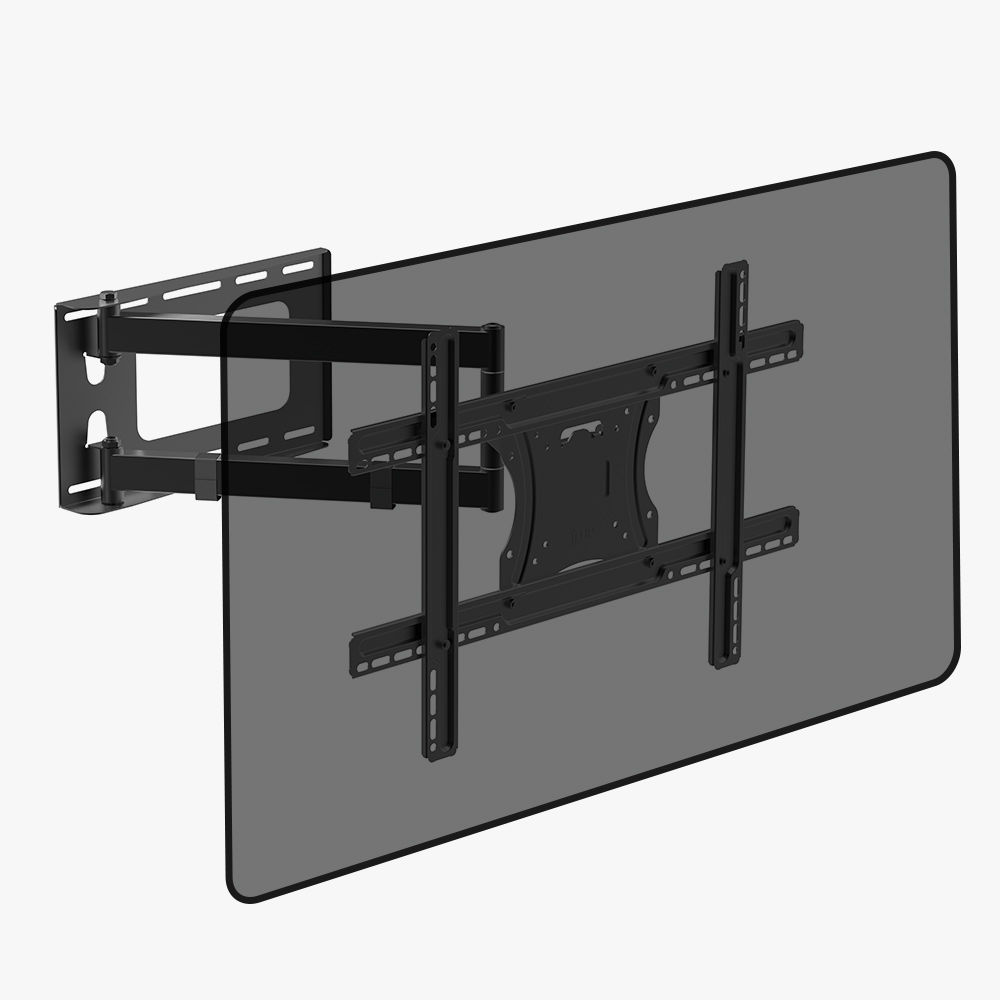
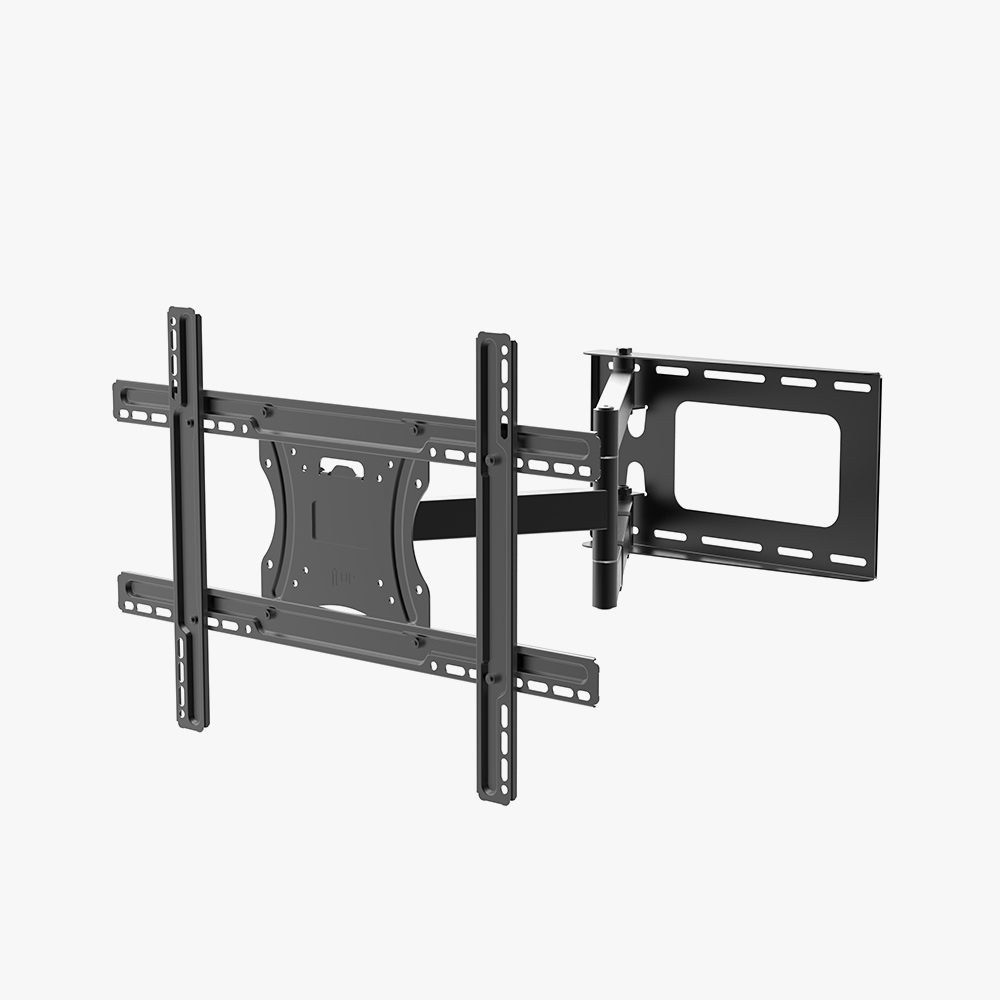
Fix pilot batch thumbnails: verify content + brand, fill/remove gallery slots

diff --git a/product-detail-apl-64tvsl.html b/product-detail-apl-64tvsl.html
@@ -68,14 +68,14 @@
             <div class="gallery-thumb active" onclick="setThumb('APL-64TVSL/thumb/apl-64tvsl-thumb-01.jpg','정면')">
               <img src="APL-64TVSL/thumb/apl-64tvsl-thumb-01.jpg" alt="썸네일 1" style="width:100%;height:100%;object-fit:contain;padding:4px;">
             </div>
-            <div class="gallery-thumb" onclick="setThumb('APL-64TVSL/detail/APL-64TVSL_01.jpg','측면')">
-              <img src="APL-64TVSL/detail/APL-64TVSL_01.jpg" alt="썸네일 2" style="width:100%;height:100%;object-fit:contain;padding:4px;">
+            <div class="gallery-thumb" onclick="setThumb('APL-64TVSL/thumb/apl-64tvsl-thumb-02.jpg','설치 예시 1')">
+              <img src="APL-64TVSL/thumb/apl-64tvsl-thumb-02.jpg" alt="썸네일 2" style="width:100%;height:100%;object-fit:contain;padding:4px;">
             </div>
-            <div class="gallery-thumb" onclick="setThumb('APL-64TVSL/detail/APL-64TVSL_02.jpg','설치예시')">
-              <img src="APL-64TVSL/detail/APL-64TVSL_02.jpg" alt="썸네일 3" style="width:100%;height:100%;object-fit:contain;padding:4px;">
+            <div class="gallery-thumb" onclick="setThumb('APL-64TVSL/thumb/apl-64tvsl-thumb-03.jpg','설치 예시 2')">
+              <img src="APL-64TVSL/thumb/apl-64tvsl-thumb-03.jpg" alt="썸네일 3" style="width:100%;height:100%;object-fit:contain;padding:4px;">
             </div>
-            <div class="gallery-thumb" onclick="setThumb('APL-64TVSL/detail/APL-64TVSL_03.jpg','디테일')">
-              <img src="APL-64TVSL/detail/APL-64TVSL_03.jpg" alt="썸네일 4" style="width:100%;height:100%;object-fit:contain;padding:4px;">
+            <div class="gallery-thumb" onclick="setThumb('APL-64TVSL/thumb/apl-64tvsl-thumb-04.jpg','설치 예시 3')">
+              <img src="APL-64TVSL/thumb/apl-64tvsl-thumb-04.jpg" alt="썸네일 4" style="width:100%;height:100%;object-fit:contain;padding:4px;">
             </div>
           </div>
         </div>

diff --git a/product-detail-apl-96tvd.html b/product-detail-apl-96tvd.html
@@ -68,14 +68,14 @@
             <div class="gallery-thumb active" onclick="setThumb('APL-96TVD/thumb/apl-96tvd-thumb-01.jpg','정면')">
               <img src="APL-96TVD/thumb/apl-96tvd-thumb-01.jpg" alt="썸네일 1" style="width:100%;height:100%;object-fit:contain;padding:4px;">
             </div>
-            <div class="gallery-thumb" onclick="setThumb('APL-96TVD/detail/APL-96TVD_01.jpg','측면')">
-              <img src="APL-96TVD/detail/APL-96TVD_01.jpg" alt="썸네일 2" style="width:100%;height:100%;object-fit:contain;padding:4px;">
+            <div class="gallery-thumb" onclick="setThumb('APL-96TVD/thumb/apl-96tvd-thumb-02.jpg','설치 예시 1')">
+              <img src="APL-96TVD/thumb/apl-96tvd-thumb-02.jpg" alt="썸네일 2" style="width:100%;height:100%;object-fit:contain;padding:4px;">
             </div>
-            <div class="gallery-thumb" onclick="setThumb('APL-96TVD/detail/APL-96TVD_02.jpg','설치예시')">
-              <img src="APL-96TVD/detail/APL-96TVD_02.jpg" alt="썸네일 3" style="width:100%;height:100%;object-fit:contain;padding:4px;">
+            <div class="gallery-thumb" onclick="setThumb('APL-96TVD/thumb/apl-96tvd-thumb-03.jpg','설치 예시 2')">
+              <img src="APL-96TVD/thumb/apl-96tvd-thumb-03.jpg" alt="썸네일 3" style="width:100%;height:100%;object-fit:contain;padding:4px;">
             </div>
-            <div class="gallery-thumb" onclick="setThumb('APL-96TVD/detail/APL-96TVD_03.jpg','디테일')">
-              <img src="APL-96TVD/detail/APL-96TVD_03.jpg" alt="썸네일 4" style="width:100%;height:100%;object-fit:contain;padding:4px;">
+            <div class="gallery-thumb" onclick="setThumb('APL-96TVD/thumb/apl-96tvd-thumb-04.jpg','측면')">
+              <img src="APL-96TVD/thumb/apl-96tvd-thumb-04.jpg" alt="썸네일 4" style="width:100%;height:100%;object-fit:contain;padding:4px;">
             </div>
           </div>
         </div>

diff --git a/product-detail-apl-fs44w.html b/product-detail-apl-fs44w.html
@@ -68,14 +68,14 @@
             <div class="gallery-thumb active" onclick="setThumb('APL-FS44W/thumb/apl-fs44w-thumb-01.jpg','정면')">
               <img src="APL-FS44W/thumb/apl-fs44w-thumb-01.jpg" alt="썸네일 1" style="width:100%;height:100%;object-fit:contain;padding:4px;">
             </div>
-            <div class="gallery-thumb" onclick="setThumb('APL-FS44W/detail/APL-FS44W_01.jpg','전체')">
-              <img src="APL-FS44W/detail/APL-FS44W_01.jpg" alt="썸네일 2" style="width:100%;height:100%;object-fit:contain;padding:4px;">
+            <div class="gallery-thumb" onclick="setThumb('APL-FS44W/thumb/apl-fs44w-thumb-02.jpg','설치 예시 1')">
+              <img src="APL-FS44W/thumb/apl-fs44w-thumb-02.jpg" alt="썸네일 2" style="width:100%;height:100%;object-fit:contain;padding:4px;">
             </div>
-            <div class="gallery-thumb" onclick="setThumb('APL-FS44W/detail/APL-FS44W_02.jpg','측면')">
-              <img src="APL-FS44W/detail/APL-FS44W_02.jpg" alt="썸네일 3" style="width:100%;height:100%;object-fit:contain;padding:4px;">
+            <div class="gallery-thumb" onclick="setThumb('APL-FS44W/thumb/apl-fs44w-thumb-03.jpg','설치 예시 2')">
+              <img src="APL-FS44W/thumb/apl-fs44w-thumb-03.jpg" alt="썸네일 3" style="width:100%;height:100%;object-fit:contain;padding:4px;">
             </div>
-            <div class="gallery-thumb" onclick="setThumb('APL-FS44W/detail/APL-FS44W_03.jpg','디테일')">
-              <img src="APL-FS44W/detail/APL-FS44W_03.jpg" alt="썸네일 4" style="width:100%;height:100%;object-fit:contain;padding:4px;">
+            <div class="gallery-thumb" onclick="setThumb('APL-FS44W/thumb/apl-fs44w-thumb-04.jpg','디테일')">
+              <img src="APL-FS44W/thumb/apl-fs44w-thumb-04.jpg" alt="썸네일 4" style="width:100%;height:100%;object-fit:contain;padding:4px;">
             </div>
           </div>
         </div>

diff --git a/product-detail-apl-vesa2020.html b/product-detail-apl-vesa2020.html
@@ -68,14 +68,14 @@
             <div class="gallery-thumb active" onclick="setThumb('APL-VESA2020/thumb/apl-vesa2020-thumb-01.jpg','정면')">
               <img src="APL-VESA2020/thumb/apl-vesa2020-thumb-01.jpg" alt="썸네일 1" style="width:100%;height:100%;object-fit:contain;padding:4px;">
             </div>
-            <div class="gallery-thumb" onclick="setThumb('APL-VESA2020/detail/APL-VESA2020_01.jpg','상세 1')">
-              <img src="APL-VESA2020/detail/APL-VESA2020_01.jpg" alt="썸네일 2" style="width:100%;height:100%;object-fit:contain;padding:4px;">
+            <div class="gallery-thumb" onclick="setThumb('APL-VESA2020/thumb/apl-vesa2020-thumb-02.jpg','설치 예시 1')">
+              <img src="APL-VESA2020/thumb/apl-vesa2020-thumb-02.jpg" alt="썸네일 2" style="width:100%;height:100%;object-fit:contain;padding:4px;">
             </div>
-            <div class="gallery-thumb" onclick="setThumb('APL-VESA2020/detail/APL-VESA2020_02.jpg','상세 2')">
-              <img src="APL-VESA2020/detail/APL-VESA2020_02.jpg" alt="썸네일 3" style="width:100%;height:100%;object-fit:contain;padding:4px;">
+            <div class="gallery-thumb" onclick="setThumb('APL-VESA2020/thumb/apl-vesa2020-thumb-03.jpg','설치 예시 2')">
+              <img src="APL-VESA2020/thumb/apl-vesa2020-thumb-03.jpg" alt="썸네일 3" style="width:100%;height:100%;object-fit:contain;padding:4px;">
             </div>
-            <div class="gallery-thumb" onclick="setThumb('APL-VESA2020/detail/APL-VESA2020_03.jpg','상세 3')">
-              <img src="APL-VESA2020/detail/APL-VESA2020_03.jpg" alt="썸네일 4" style="width:100%;height:100%;object-fit:contain;padding:4px;">
+            <div class="gallery-thumb" onclick="setThumb('APL-VESA2020/thumb/apl-vesa2020-thumb-04.jpg','측면')">
+              <img src="APL-VESA2020/thumb/apl-vesa2020-thumb-04.jpg" alt="썸네일 4" style="width:100%;height:100%;object-fit:contain;padding:4px;">
             </div>
           </div>
         </div>

diff --git a/product-detail-apl-lbm40wh.html b/product-detail-apl-lbm40wh.html
@@ -68,15 +68,6 @@
             <div class="gallery-thumb active" onclick="setThumb('APL-LBM40WH/thumb/apl-lbm40wh-thumb-01.jpg','정면')">
               <img src="APL-LBM40WH/thumb/apl-lbm40wh-thumb-01.jpg" alt="썸네일 1" style="width:100%;height:100%;object-fit:contain;padding:4px;">
             </div>
-            <div class="gallery-thumb" onclick="setThumb('APL-LBM40WH/detail/APL-LBM40WH_01.jpg','전체')">
-              <img src="APL-LBM40WH/detail/APL-LBM40WH_01.jpg" alt="썸네일 2" style="width:100%;height:100%;object-fit:contain;padding:4px;">
-            </div>
-            <div class="gallery-thumb" onclick="setThumb('APL-LBM40WH/detail/APL-LBM40WH_02.jpg','측면')">
-              <img src="APL-LBM40WH/detail/APL-LBM40WH_02.jpg" alt="썸네일 3" style="width:100%;height:100%;object-fit:contain;padding:4px;">
-            </div>
-            <div class="gallery-thumb" onclick="setThumb('APL-LBM40WH/detail/APL-LBM40WH_03.jpg','디테일')">
-              <img src="APL-LBM40WH/detail/APL-LBM40WH_03.jpg" alt="썸네일 4" style="width:100%;height:100%;object-fit:contain;padding:4px;">
-            </div>
           </div>
         </div>
 

diff --git a/product-detail-apl-101f.html b/product-detail-apl-101f.html
@@ -68,11 +68,11 @@
             <div class="gallery-thumb active" onclick="setThumb('APL-101F/thumb/apl-101f-thumb-01.jpg','정면')">
               <img src="APL-101F/thumb/apl-101f-thumb-01.jpg" alt="썸네일 1" style="width:100%;height:100%;object-fit:contain;padding:4px;">
             </div>
-            <div class="gallery-thumb" onclick="setThumb('APL-101F/detail/APL-101F_01.jpg','측면')">
-              <img src="APL-101F/detail/APL-101F_01.jpg" alt="썸네일 2" style="width:100%;height:100%;object-fit:contain;padding:4px;">
+            <div class="gallery-thumb" onclick="setThumb('APL-101F/thumb/apl-101f-thumb-02.jpg','설치 예시 1')">
+              <img src="APL-101F/thumb/apl-101f-thumb-02.jpg" alt="썸네일 2" style="width:100%;height:100%;object-fit:contain;padding:4px;">
             </div>
-            <div class="gallery-thumb" onclick="setThumb('APL-101F/detail/APL-101F_02.jpg','디테일')">
-              <img src="APL-101F/detail/APL-101F_02.jpg" alt="썸네일 3" style="width:100%;height:100%;object-fit:contain;padding:4px;">
+            <div class="gallery-thumb" onclick="setThumb('APL-101F/thumb/apl-101f-thumb-03.jpg','설치 예시 2')">
+              <img src="APL-101F/thumb/apl-101f-thumb-03.jpg" alt="썸네일 3" style="width:100%;height:100%;object-fit:contain;padding:4px;">
             </div>
           </div>
         </div>

diff --git a/product-detail-apl-22f.html b/product-detail-apl-22f.html
@@ -68,11 +68,11 @@
             <div class="gallery-thumb active" onclick="setThumb('APL-22F/thumb/apl-22f-thumb-01.jpg','정면')">
               <img src="APL-22F/thumb/apl-22f-thumb-01.jpg" alt="썸네일 1" style="width:100%;height:100%;object-fit:contain;padding:4px;">
             </div>
-            <div class="gallery-thumb" onclick="setThumb('APL-22F/detail/APL-22F_01.jpg','측면')">
-              <img src="APL-22F/detail/APL-22F_01.jpg" alt="썸네일 2" style="width:100%;height:100%;object-fit:contain;padding:4px;">
+            <div class="gallery-thumb" onclick="setThumb('APL-22F/thumb/apl-22f-thumb-02.jpg','설치 예시 1')">
+              <img src="APL-22F/thumb/apl-22f-thumb-02.jpg" alt="썸네일 2" style="width:100%;height:100%;object-fit:contain;padding:4px;">
             </div>
-            <div class="gallery-thumb" onclick="setThumb('APL-22F/detail/APL-22F_02.jpg','디테일')">
-              <img src="APL-22F/detail/APL-22F_02.jpg" alt="썸네일 3" style="width:100%;height:100%;object-fit:contain;padding:4px;">
+            <div class="gallery-thumb" onclick="setThumb('APL-22F/thumb/apl-22f-thumb-03.jpg','설치 예시 2')">
+              <img src="APL-22F/thumb/apl-22f-thumb-03.jpg" alt="썸네일 3" style="width:100%;height:100%;object-fit:contain;padding:4px;">
             </div>
           </div>
         </div>

diff --git a/product-detail-apl-fs16shelfb.html b/product-detail-apl-fs16shelfb.html
@@ -68,11 +68,8 @@
             <div class="gallery-thumb active" onclick="setThumb('APL-FS16SHELFB/thumb/apl-fs16shelfb-thumb-01.jpg','정면')">
               <img src="APL-FS16SHELFB/thumb/apl-fs16shelfb-thumb-01.jpg" alt="썸네일 1" style="width:100%;height:100%;object-fit:contain;padding:4px;">
             </div>
-            <div class="gallery-thumb" onclick="setThumb('APL-FS16SHELFB/detail/APL-FS16SHELFB_01.jpg','장착 예시')">
-              <img src="APL-FS16SHELFB/detail/APL-FS16SHELFB_01.jpg" alt="썸네일 2" style="width:100%;height:100%;object-fit:contain;padding:4px;">
-            </div>
-            <div class="gallery-thumb" onclick="setThumb('APL-FS16SHELFB/detail/APL-FS16SHELFB_02.jpg','디테일')">
-              <img src="APL-FS16SHELFB/detail/APL-FS16SHELFB_02.jpg" alt="썸네일 3" style="width:100%;height:100%;object-fit:contain;padding:4px;">
+            <div class="gallery-thumb" onclick="setThumb('APL-FS16SHELFB/thumb/apl-fs16shelfb-thumb-02.jpg','로고 버전')">
+              <img src="APL-FS16SHELFB/thumb/apl-fs16shelfb-thumb-02.jpg" alt="썸네일 2" style="width:100%;height:100%;object-fit:contain;padding:4px;">
             </div>
           </div>
         </div>

diff --git a/product-detail-apl-pbkitw.html b/product-detail-apl-pbkitw.html
@@ -68,8 +68,8 @@
             <div class="gallery-thumb active" onclick="setThumb('APL-PBKITW/thumb/apl-pbkitw-thumb-01.jpg','정면')">
               <img src="APL-PBKITW/thumb/apl-pbkitw-thumb-01.jpg" alt="썸네일 1" style="width:100%;height:100%;object-fit:contain;padding:4px;">
             </div>
-            <div class="gallery-thumb" onclick="setThumb('APL-PBKITW/detail/APL-PBKITW_01.jpg','구성품')">
-              <img src="APL-PBKITW/detail/APL-PBKITW_01.jpg" alt="썸네일 2" style="width:100%;height:100%;object-fit:contain;padding:4px;">
+            <div class="gallery-thumb" onclick="setThumb('APL-PBKITW/thumb/apl-pbkitw-thumb-02.jpg','구성품 (측면)')">
+              <img src="APL-PBKITW/thumb/apl-pbkitw-thumb-02.jpg" alt="썸네일 2" style="width:100%;height:100%;object-fit:contain;padding:4px;">
             </div>
           </div>
         </div>

diff --git a/product-detail-apl-tsgt40b.html b/product-detail-apl-tsgt40b.html
@@ -68,9 +68,6 @@
             <div class="gallery-thumb active" onclick="setThumb('APL-TSGT40B/thumb/apl-tsgt40b-thumb-01.jpg','정면')">
               <img src="APL-TSGT40B/thumb/apl-tsgt40b-thumb-01.jpg" alt="썸네일 1" style="width:100%;height:100%;object-fit:contain;padding:4px;">
             </div>
-            <div class="gallery-thumb" onclick="setThumb('APL-TSGT40B/detail/APL-TSGT40B_01.jpg','디테일')">
-              <img src="APL-TSGT40B/detail/APL-TSGT40B_01.jpg" alt="썸네일 2" style="width:100%;height:100%;object-fit:contain;padding:4px;">
-            </div>
           </div>
         </div>
 